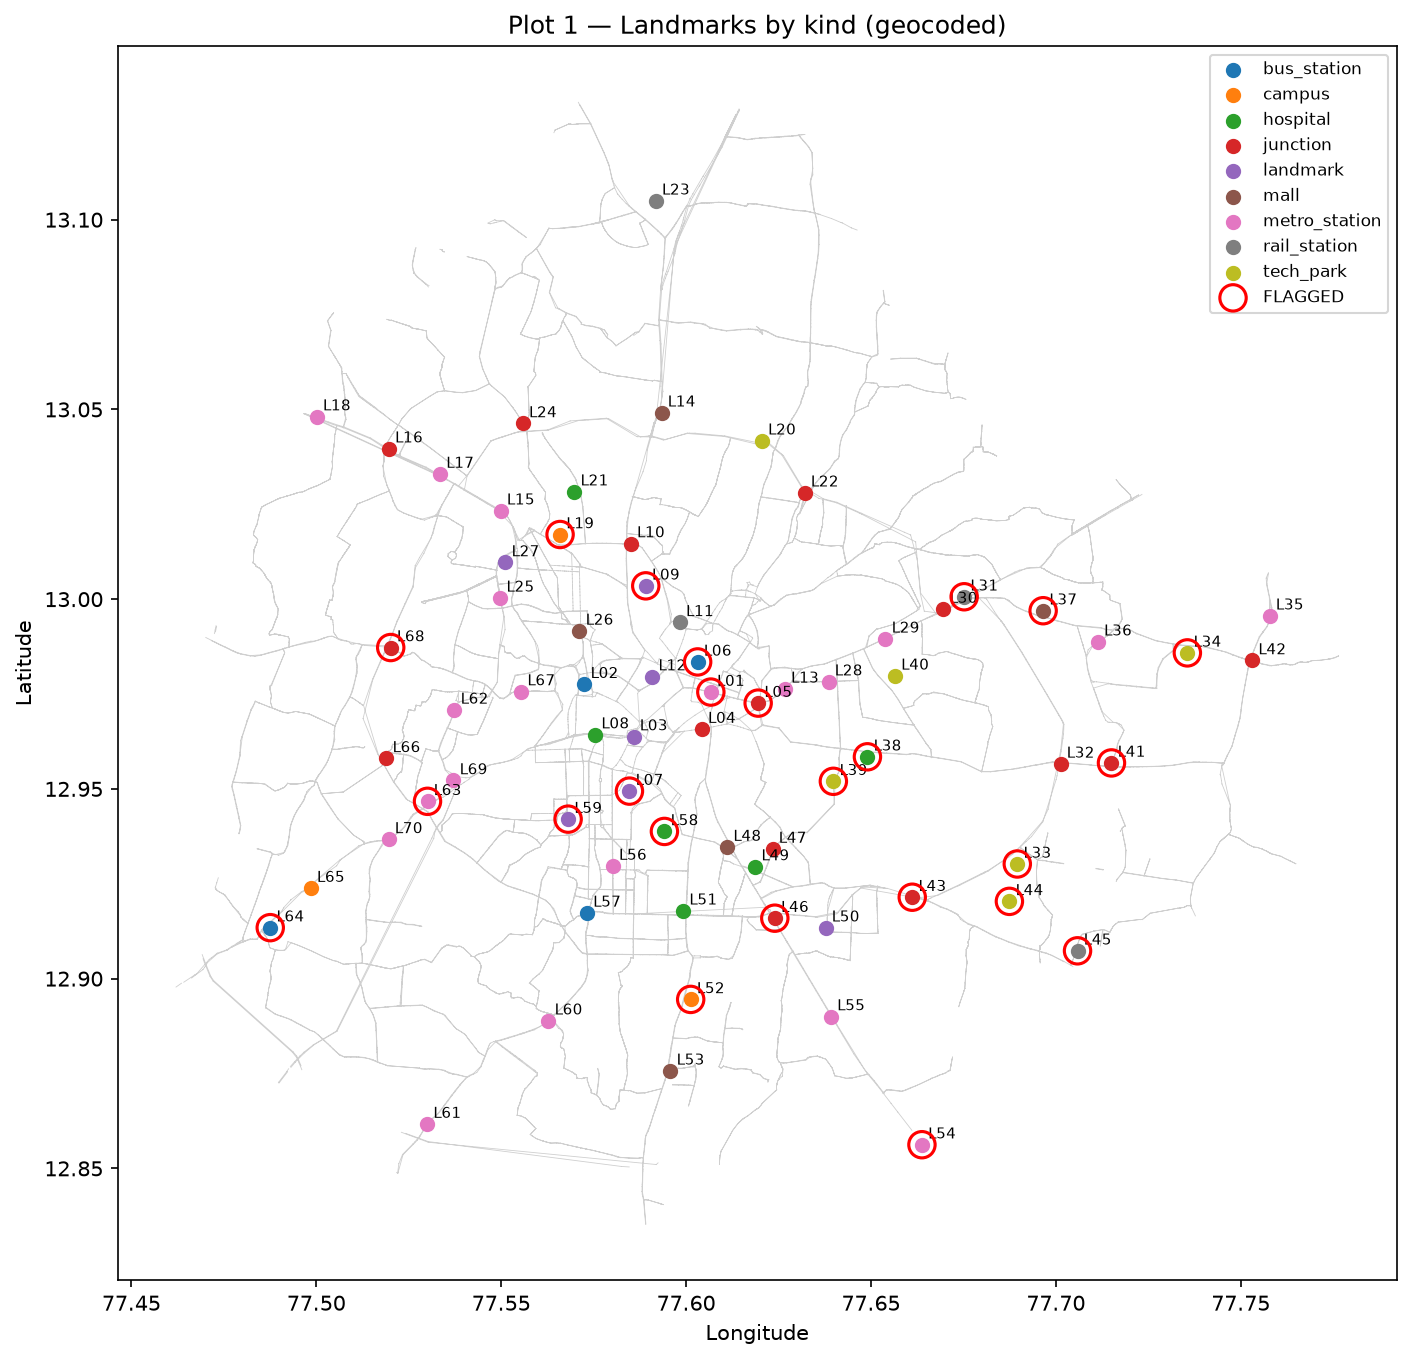
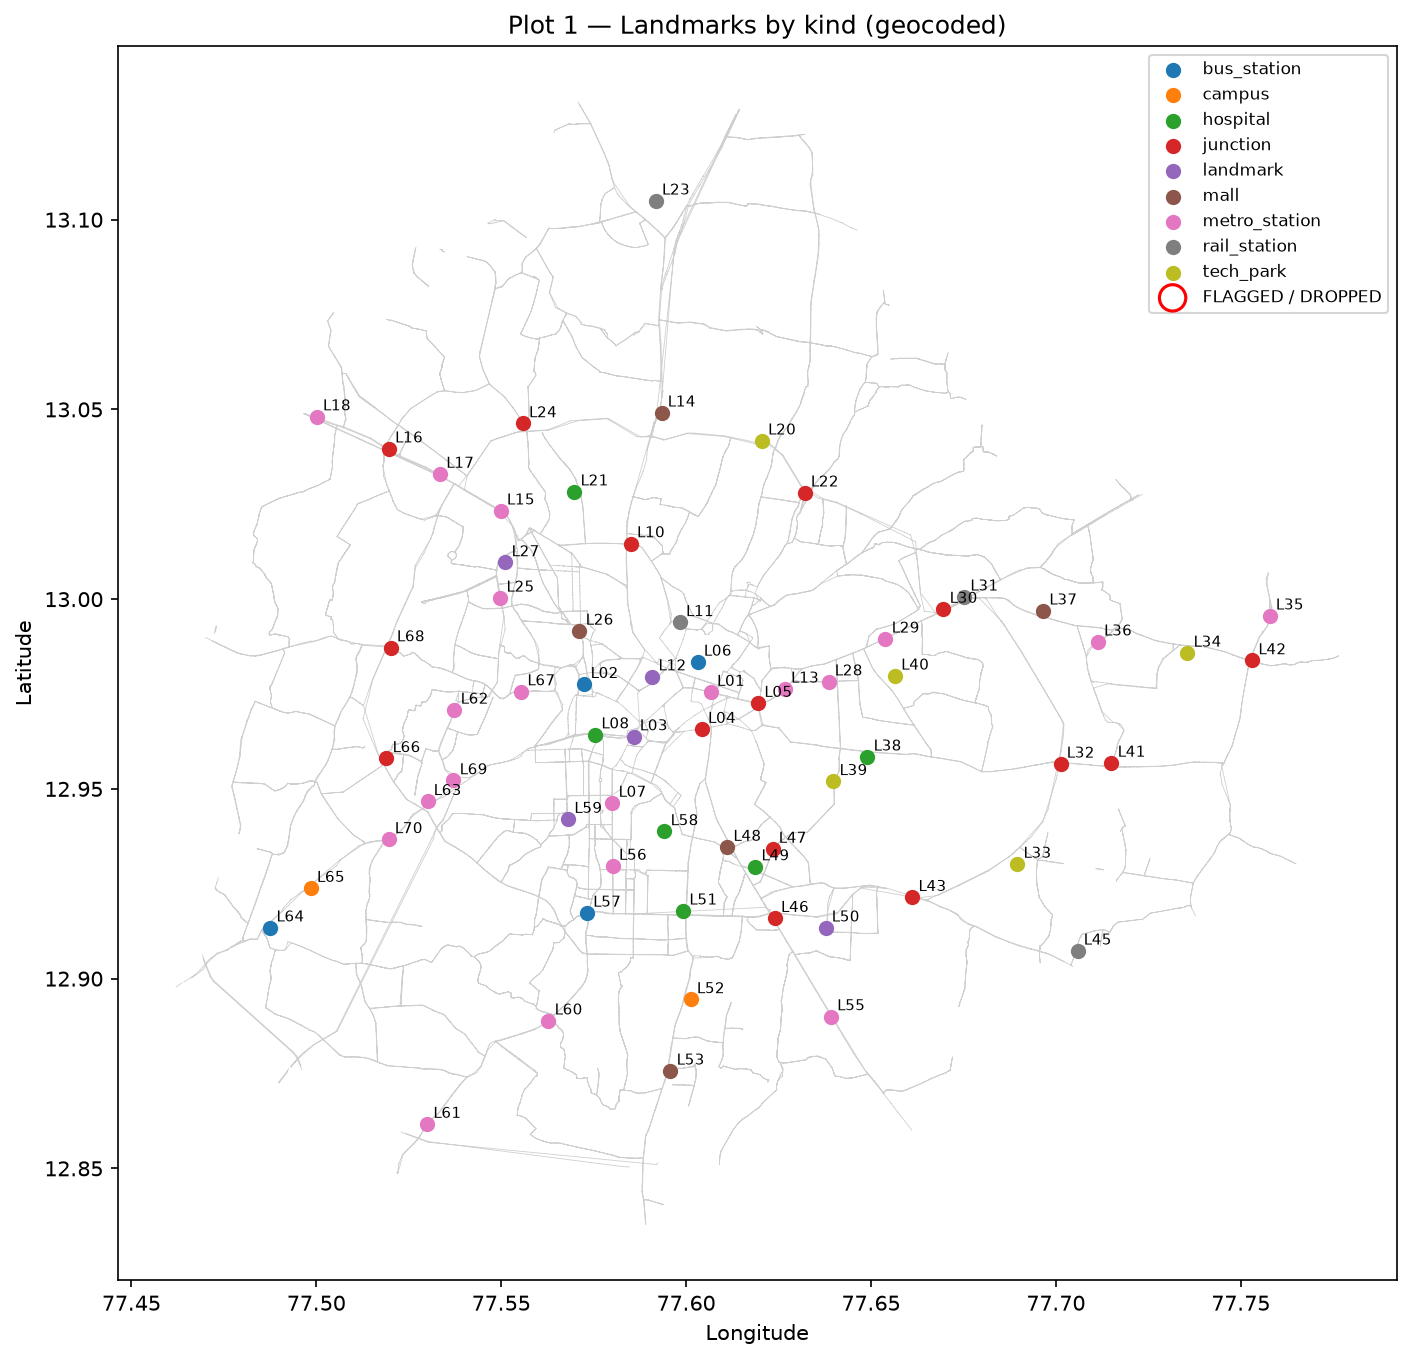
v2 Phase 1 complete: Gate-2 decisions, 66 landmarks, 72-route list, results doc
- review_decisions.csv (19 approve, 4 drop) applied by geocode checks
- L07 replaced by Lalbagh Metro Station; IISc retry failed -> dropped
- od_pairs.csv: 72 routes, 4 per group across 18 groups
- PHASE1_RESULTS.md with full route table; README status/next steps

diff --git a/src/llm_benchmark/1b_build_od_pairs.py b/src/llm_benchmark/1b_build_od_pairs.py
@@ -382,9 +382,27 @@ def evaluate_geocodes(seed: pd.DataFrame, provider: str):
                      "snap_m": round(snap_m, 1), "status": "OK" if not flags else "FLAG",
                      "flags": "; ".join(flags)})
     out = pd.DataFrame(rows)
+
+    # Human review decisions (Gate 2) live in review_decisions.csv so re-running the checks
+    # never loses them: APPROVE turns a FLAG into APPROVED; DROP excludes the landmark.
+    out["review_decision"], out["review_reason"] = "", ""
+    if C.V2_REVIEW_DECISIONS_CSV.exists():
+        dec = pd.read_csv(C.V2_REVIEW_DECISIONS_CSV).set_index("landmark_id")
+        for i, r in out.iterrows():
+            if r.landmark_id not in dec.index:
+                continue
+            d = dec.loc[r.landmark_id]
+            out.at[i, "review_decision"], out.at[i, "review_reason"] = d.decision, d.reason
+            if d.decision == "DROP":
+                out.at[i, "status"] = "DROPPED"
+            elif d.decision == "APPROVE" and r.status == "FLAG":
+                out.at[i, "status"] = "APPROVED"
     out.to_csv(C.V2_LANDMARKS_GEOCODED_CSV, index=False)
     out[out.status != "OK"].to_csv(C.V2_LANDMARKS_REVIEW_CSV, index=False)
     print(out.status.value_counts().to_string())
+    unresolved = out[out.status.isin(["FLAG", "NOT_QUERIED"])]
+    if len(unresolved):
+        print(f"UNRESOLVED (need review): {', '.join(unresolved.landmark_id)}")
     print(f"Saved {C.V2_LANDMARKS_GEOCODED_CSV.name} and {C.V2_LANDMARKS_REVIEW_CSV.name}")
     fig_dir = C.V2_FIGURES_DIR / "phase1"
     plot_landmarks(out, fig_dir, net, title_suffix="geocoded")
@@ -644,9 +662,9 @@ def plot_landmarks(lm, fig_dir, net, title_suffix=""):
     for kind, grp in pts.groupby("kind"):
         ax.scatter(grp.plng, grp.plat, s=40, label=kind, zorder=3)
     if "status" in lm:
-        fl = lm[lm.status == "FLAG"]
+        fl = lm[lm.status.isin(["FLAG", "DROPPED"])]
         ax.scatter(fl["lng"], fl["lat"], s=160, facecolors="none", edgecolors="red", lw=1.5,
-                   label="FLAGGED", zorder=4)
+                   label="FLAGGED / DROPPED", zorder=4)
     for r in pts.itertuples():
         ax.annotate(r.landmark_id, (r.plng, r.plat), fontsize=7, xytext=(3, 3), textcoords="offset points")
     ax.legend(loc="upper right", fontsize=8)
@@ -657,7 +675,7 @@ def plot_landmarks(lm, fig_dir, net, title_suffix=""):
 
 def plot_geocode_quality(lm, fig_dir):
     import matplotlib.pyplot as plt
-    q = lm[lm.status.isin(["OK", "FLAG"])]
+    q = lm[lm.status.isin(["OK", "FLAG", "APPROVED", "DROPPED"]) & lm.lat.notna()]
     checks = {
         "name_score": q.name_score >= C.V2_NAME_SCORE_MIN,
         "area": q.area_in_address | (q.approx_dist_m <= C.V2_APPROX_MAX_M),

diff --git a/src/llm_benchmark/config.py b/src/llm_benchmark/config.py
@@ -113,6 +113,7 @@ V2_FIGURES_DIR = V2_DIR / "figures"
 V2_LANDMARKS_SEED_CSV = V2_DIR / "landmarks_seed.csv"
 V2_LANDMARKS_GEOCODED_CSV = V2_DIR / "landmarks_geocoded.csv"
 V2_LANDMARKS_REVIEW_CSV = V2_DIR / "landmarks_review.csv"
+V2_REVIEW_DECISIONS_CSV = V2_DIR / "review_decisions.csv"       # Gate-2 human decisions
 V2_HOTSPOT_LEGS_GEOJSON = V2_DIR / "hotspot_legs.geojson"
 V2_CANDIDATE_PAIRS_CSV = V2_DIR / "candidate_pairs.csv"
 V2_OD_PAIRS_CSV = V2_DIR / "od_pairs.csv"

diff --git a/docs/benchmark_v2/PHASE1_RESULTS.md b/docs/benchmark_v2/PHASE1_RESULTS.md
@@ -1,0 +1,127 @@
+# Phase 1 results — the v2 route list (2026-10-01)
+
+**Status:** complete, awaiting Ishan + professor review (Gate 3) before any Phase 2 (Google Routes) calls.
+Definitions: [METHODOLOGY.md](METHODOLOGY.md) · decisions: [DECISIONS.md](DECISIONS.md) (D-02…D-24) · file columns: [DATA_DICTIONARY.md](DATA_DICTIONARY.md) · runs: [RUN_LOG.md](RUN_LOG.md) (R-03…R-12).
+
+## 1. Summary
+| Item | Result |
+|---|---|
+| Landmarks drafted | 70 (`landmarks_seed.csv`) |
+| Geocoded (Places Text Search) | 72 calls in total (70 + 2 re-queries), all successful, ≈ $0 (free cap) |
+| Automatic checks | 47 OK · 23 flagged |
+| Human review (Gate 2) | 19 flagged approved (correct place; name wording or large-site snap) · 4 dropped · 1 replaced (Lalbagh Main Gate → Lalbagh Metro Station, passed) |
+| **Usable landmarks** | **66** (47 OK + 19 APPROVED); 64 are used by at least one route |
+| Candidate routes | 2,059 pairs (straight line 0.7–22 km) → 2,019 eligible |
+| **Selected routes** | **72**, exactly 4 in each of the 18 groups (3 bands × 3 road types × 2 hotspot exposure) |
+| Route length | 1.3 – 23.9 km, median 9.7 km (band medians 3.7 / 9.7 / 15.3 km) |
+| Road type | median arterial share: arterial 0.79 · mixed 0.50 · sub-arterial 0.22 |
+| Hotspot exposure | median share on hotspot legs: high 0.78 · low 0.38 |
+| Endpoint kinds | metro 40 · junction 36 · hospital 14 · bus station 12 · landmark 11 · mall 10 · tech park 9 · rail 7 · campus 5 |
+| Endpoint zones | East 34 · Central 31 · South 31 · West 29 · North 19 |
+| Queries this implies | 72 × 28 = **2,016** Google + 2,016 LLM (condition A) |
+| Determinism | same inputs → identical `od_pairs.csv` (md5 checked) |
+
+## 2. Landmark review outcome (Gate 2)
+- **Dropped (4):** L09 Bangalore Palace (point 493 m inside grounds) · L19 IISc Main Gate (two queries both returned campus centroid, 282 m from road) · L44 RMZ Ecospace (Google returned a different park, RMZ Ecoworld, ~1 km away) · L54 Electronic City Metro (outside local OSM map / BBMP limits).
+- **Replaced (1):** L07 Lalbagh Main Gate → **Lalbagh Metro Station** (garden centroid was 276 m from road).
+- **Approved despite flag (19):** 14 correct places whose Google name differs from the everyday name (e.g. "MG Road Metro Station" = Google's "Mahatma Gandhi Road" subway station); 5 large sites 151–202 m from the nearest road (Embassy Tech Village, ITPL, Phoenix Marketcity, IIM Bangalore, NIMHANS).
+- All decisions with reasons: `data/benchmark_v2/review_decisions.csv`.
+
+## 3. Caveats to keep in mind
+1. **Tags are provisional.** Band, road type and hotspot exposure come from the OSM shortest path. Phase 2 recomputes them from Google's actual route; some routes may change group.
+2. **Hotspot exposure is relative** (above/below the band median, D-17). A "low" 12–25 km route can still have ~50 % of its length on hotspot legs, because the band median is 0.60.
+3. Only **one route is under 2 km** (R055 Trinity Circle → MG Road Metro, 1.3 km; both compact). The 1–5 km band is mostly 2–5 km.
+4. North has the fewest endpoints (19) — fewer landmarks there inside BBMP limits.
+5. Large-site endpoints (19 of 144 endpoints) are points inside the site; Google Routes starts from the nearest road. Phase 2 records Google's actual start/end point.
+6. 2 usable landmarks ended up unused (L42 Hope Farm Junction, L60 Konanakunte Cross Metro) because of the 3-uses cap and near-duplicate rule.
+
+## 4. Figures (`data/benchmark_v2/figures/phase1/`)
+| Plot | What it shows |
+|---|---|
+| p1_landmarks_map.png | all 70 landmarks at Google coordinates; flagged/dropped circled |
+| p2_geocode_quality.png | pass/flag per check; distance-to-road histogram |
+| p3_hotspot_legs_map.png | 564 plausible Stage-4 legs; 113 hotspots in red |
+| p4_selected_routes_map.png | the 72 routes, coloured by band, dashed = high hotspot exposure |
+| p5_group_fill_heatmap.png | 4 per group, and how many were eligible in each |
+| p6_selected_vs_candidates.png | selected vs eligible length and arterial-share distributions |
+| p7_landmark_usage_zones.png | routes per landmark; endpoints per zone |
+| p8_detour_factor.png | OSM length vs straight line; median detour **1.22×** (input to the naive baseline) |
+QGIS: open `data/benchmark_v2/od_pairs.geojson` (routes) and `hotspot_legs.geojson`.
+
+## 5. The 72 routes
+The origin/destination text is exactly what the LLM will receive; Google receives the coordinates in `od_pairs.csv`.
+
+| Route | Origin → Destination (exact LLM strings) | OSM km | Band | Road type (arterial share) | Hotspot exposure (share) |
+|---|---|---|---|---|---|
+| R001 | Tin Factory Junction → Baiyappanahalli Metro Station | 3.4 | 1-5km | arterial (0.99) | high (1.00) |
+| R002 | Shivajinagar Bus Station → Mekhri Circle | 4.7 | 1-5km | arterial (0.66) | low (0.40) |
+| R003 | Victoria Hospital → Shivajinagar Bus Station | 4.5 | 1-5km | mixed (0.50) | high (0.78) |
+| R004 | Town Hall → Richmond Circle | 2.8 | 1-5km | mixed (0.47) | low (0.50) |
+| R005 | Banashankari Bus Station → Lalbagh Metro Station | 3.7 | 1-5km | sub-arterial (0.34) | high (0.56) |
+| R006 | Rajajinagar Metro Station → Mantri Square Mall | 3.6 | 1-5km | sub-arterial (0.06) | low (0.34) |
+| R007 | Richmond Circle → Baiyappanahalli Metro Station | 7.9 | 5-12km | arterial (0.96) | high (0.96) |
+| R008 | Deepanjali Nagar Metro Station → Kengeri Bus Terminal | 8.0 | 5-12km | arterial (0.92) | low (0.26) |
+| R009 | Bengaluru Cantonment Railway Station → Mysore Road Metro Station | 10.2 | 5-12km | mixed (0.60) | high (0.82) |
+| R010 | IIM Bangalore → Manipal Hospital Old Airport Road | 11.8 | 5-12km | mixed (0.59) | low (0.37) |
+| R011 | Jayanagar Metro Station → Iblur Junction | 10.5 | 5-12km | sub-arterial (0.39) | high (0.53) |
+| R012 | Bull Temple Basavanagudi → HSR Layout BDA Complex | 10.4 | 5-12km | sub-arterial (0.19) | low (0.15) |
+| R013 | Iblur Junction → Deepanjali Nagar Metro Station | 16.4 | 12-25km | arterial (0.81) | high (0.75) |
+| R014 | IIM Bangalore → Rajarajeshwari Nagar Metro Station | 12.7 | 12-25km | arterial (0.74) | low (0.28) |
+| R015 | Sony World Junction → MS Ramaiah Hospital | 14.1 | 12-25km | mixed (0.50) | high (0.80) |
+| R016 | KR Puram Railway Station → Carmelaram Railway Station | 13.1 | 12-25km | mixed (0.51) | low (0.27) |
+| R017 | Baiyappanahalli Metro Station → BEL Circle | 15.3 | 12-25km | sub-arterial (0.36) | high (0.69) |
+| R018 | Vijayanagar Metro Station → Yelahanka Railway Station | 19.5 | 12-25km | sub-arterial (0.08) | low (0.19) |
+| R019 | Rajarajeshwari Nagar Metro Station → Vijayanagar Metro Station | 5.0 | 1-5km | arterial (0.94) | high (0.72) |
+| R020 | Magadi Road Metro Station → Sumanahalli Junction | 4.9 | 1-5km | arterial (0.89) | low (0.16) |
+| R021 | Richmond Circle → Forum Mall Koramangala | 4.8 | 1-5km | mixed (0.59) | high (0.65) |
+| R022 | Nagarbhavi Circle → Deepanjali Nagar Metro Station | 3.3 | 1-5km | mixed (0.45) | low (0.27) |
+| R023 | Vidhana Soudha → Trinity Circle | 3.8 | 1-5km | sub-arterial (0.25) | high (0.57) |
+| R024 | Sony World Junction → St. John's Medical College Hospital | 2.0 | 1-5km | sub-arterial (0.36) | low (0.43) |
+| R025 | Shivajinagar Bus Station → Esteem Mall Hebbal | 10.3 | 5-12km | arterial (0.76) | high (0.65) |
+| R026 | Magadi Road Metro Station → Kengeri Bus Terminal | 11.8 | 5-12km | arterial (0.70) | low (0.17) |
+| R027 | MG Road Metro Station → Jayadeva Hospital | 7.5 | 5-12km | mixed (0.49) | high (0.86) |
+| R028 | Jayadeva Hospital → Nagarbhavi Circle | 11.7 | 5-12km | mixed (0.47) | low (0.12) |
+| R029 | Rajajinagar Metro Station → Jayanagar Metro Station | 10.1 | 5-12km | sub-arterial (0.27) | high (0.62) |
+| R030 | Royal Meenakshi Mall → HSR Layout BDA Complex | 8.7 | 5-12km | sub-arterial (0.04) | low (0.25) |
+| R031 | Kundalahalli Gate → Town Hall | 16.3 | 12-25km | arterial (1.00) | high (0.89) |
+| R032 | Nagarbhavi Circle → Carmelaram Railway Station | 23.9 | 12-25km | arterial (0.64) | low (0.50) |
+| R033 | Phoenix Marketcity → Mekhri Circle | 14.6 | 12-25km | mixed (0.56) | high (0.61) |
+| R034 | Silk Institute Metro Station → Halasuru Metro Station | 19.4 | 12-25km | mixed (0.55) | low (0.46) |
+| R035 | St. John's Medical College Hospital → ITPL Whitefield | 17.9 | 12-25km | sub-arterial (0.40) | high (0.79) |
+| R036 | Iblur Junction → Peenya Metro Station | 23.5 | 12-25km | sub-arterial (0.27) | low (0.52) |
+| R037 | KR Puram Railway Station → Phoenix Marketcity | 2.8 | 1-5km | arterial (0.76) | high (0.79) |
+| R038 | Mysore Road Metro Station → RV College of Engineering | 5.0 | 1-5km | arterial (0.88) | low (0.35) |
+| R039 | Lalbagh Metro Station → Town Hall | 2.1 | 1-5km | mixed (0.52) | high (1.00) |
+| R040 | Silk Board Junction → Sony World Junction | 3.8 | 1-5km | mixed (0.59) | low (0.47) |
+| R041 | Esteem Mall Hebbal → Manyata Tech Park | 3.7 | 1-5km | sub-arterial (0.00) | high (0.52) |
+| R042 | ISKCON Temple Rajajinagar → Sumanahalli Junction | 4.8 | 1-5km | sub-arterial (0.03) | low (0.17) |
+| R043 | Manipal Hospital Old Airport Road → Bull Temple Basavanagudi | 10.8 | 5-12km | arterial (0.67) | high (0.83) |
+| R044 | RV College of Engineering → Vijayanagar Metro Station | 7.9 | 5-12km | arterial (0.97) | low (0.48) |
+| R045 | Halasuru Metro Station → Banashankari Bus Station | 10.6 | 5-12km | mixed (0.46) | high (0.85) |
+| R046 | Rajajinagar Metro Station → RV College of Engineering | 12.0 | 5-12km | mixed (0.51) | low (0.42) |
+| R047 | Banashankari Bus Station → Kempegowda Bus Station (Majestic) | 7.6 | 5-12km | sub-arterial (0.35) | high (0.66) |
+| R048 | Kempegowda Bus Station (Majestic) → Jalahalli Cross | 10.1 | 5-12km | sub-arterial (0.39) | low (0.41) |
+| R049 | Forum Mall Koramangala → Tin Factory Junction | 12.5 | 12-25km | arterial (0.61) | high (0.66) |
+| R050 | Manipal Hospital Old Airport Road → Sumanahalli Junction | 16.5 | 12-25km | arterial (0.87) | low (0.54) |
+| R051 | HSR Layout BDA Complex → Hoodi Metro Station | 15.4 | 12-25km | mixed (0.47) | high (0.85) |
+| R052 | Nagasandra Metro Station → Mekhri Circle | 12.5 | 12-25km | mixed (0.57) | low (0.47) |
+| R053 | MS Ramaiah Hospital → Jayanagar Metro Station | 13.0 | 12-25km | sub-arterial (0.13) | high (0.61) |
+| R054 | Bull Temple Basavanagudi → Manyata Tech Park | 14.7 | 12-25km | sub-arterial (0.24) | low (0.55) |
+| R055 | Trinity Circle → MG Road Metro Station | 1.3 | 1-5km | arterial (0.72) | high (0.79) |
+| R056 | Jayadeva Hospital → Silk Board Junction | 3.0 | 1-5km | arterial (0.97) | low (0.17) |
+| R057 | Yeshwanthpur Metro Station → Peenya Metro Station | 3.2 | 1-5km | mixed (0.40) | high (0.62) |
+| R058 | Victoria Hospital → Magadi Road Metro Station | 3.2 | 1-5km | mixed (0.59) | low (0.18) |
+| R059 | Marathahalli Bridge → Embassy Tech Village | 4.3 | 1-5km | sub-arterial (0.00) | high (0.84) |
+| R060 | Embassy Tech Village → Carmelaram Railway Station | 3.6 | 1-5km | sub-arterial (0.00) | low (0.00) |
+| R061 | Trinity Circle → Phoenix Marketcity | 9.3 | 5-12km | arterial (0.95) | high (0.96) |
+| R062 | St. John's Medical College Hospital → Bagmane Tech Park | 9.2 | 5-12km | arterial (0.60) | low (0.41) |
+| R063 | Indiranagar Metro Station → Lalbagh Metro Station | 8.5 | 5-12km | mixed (0.50) | high (0.82) |
+| R064 | Embassy GolfLinks Business Park → Bagmane Tech Park | 6.6 | 5-12km | mixed (0.45) | low (0.40) |
+| R065 | Tin Factory Junction → Hennur Cross | 7.3 | 5-12km | sub-arterial (0.05) | high (0.54) |
+| R066 | BEL Circle → Mantri Square Mall | 7.6 | 5-12km | sub-arterial (0.07) | low (0.40) |
+| R067 | Hennur Cross → Whitefield (Kadugodi) Metro Station | 17.0 | 12-25km | arterial (0.61) | high (0.67) |
+| R068 | Kengeri Bus Terminal → Kempegowda Bus Station (Majestic) | 13.8 | 12-25km | arterial (0.77) | low (0.39) |
+| R069 | Kundalahalli Gate → Hennur Cross | 15.7 | 12-25km | mixed (0.56) | high (0.84) |
+| R070 | Peenya Metro Station → NIMHANS | 14.3 | 12-25km | mixed (0.48) | low (0.51) |
+| R071 | Kudlu Gate Metro Station → Marathahalli Bridge | 12.0 | 12-25km | sub-arterial (0.04) | high (0.80) |
+| R072 | Whitefield (Kadugodi) Metro Station → Manyata Tech Park | 20.8 | 12-25km | sub-arterial (0.26) | low (0.36) |

diff --git a/docs/benchmark_v2/DATA_DICTIONARY.md b/docs/benchmark_v2/DATA_DICTIONARY.md
@@ -26,9 +26,13 @@ Seed columns plus:
 | `approx_dist_m` | result ↔ approximate coordinate |
 | `ambiguity_m` | distance to the farthest other good name match (0 = none) |
 | `snap_m` | distance to nearest drivable OSM edge |
-| `status` | OK · FLAG · NOT_QUERIED · APPROVED (set manually after review) |
-| `flags` | Reasons for FLAG |
+| `status` | OK (all checks pass) · FLAG (needs review) · APPROVED (flagged, approved in `review_decisions.csv`) · DROPPED (excluded by review) · NOT_QUERIED |
+| `flags` | Reasons for FLAG (kept after approval, for the record) |
+| `review_decision`, `review_reason` | Copied from `review_decisions.csv` |
 `landmarks_review.csv` = rows with status ≠ OK.
+
+## review_decisions.csv — Gate-2 human decisions (read by `geocode`)
+`landmark_id`, `decision` (APPROVE / DROP), `reason`, `approved_by`, `date`. Only landmarks with a decision appear.
 
 ## hotspot_legs.geojson — `1b_build_od_pairs.py legs`
 One LineString per plausible Stage-4 leg (564). Columns: `sub_route_id`, `road_name` (BBMP road the leg belongs to), `distance_meters`, `straight_m`, `detour`, `snapshot_count`, `mean_live_s`, `std_live_s`, `cv_live` (= std/mean), `is_hotspot` (top 20 % CV).
